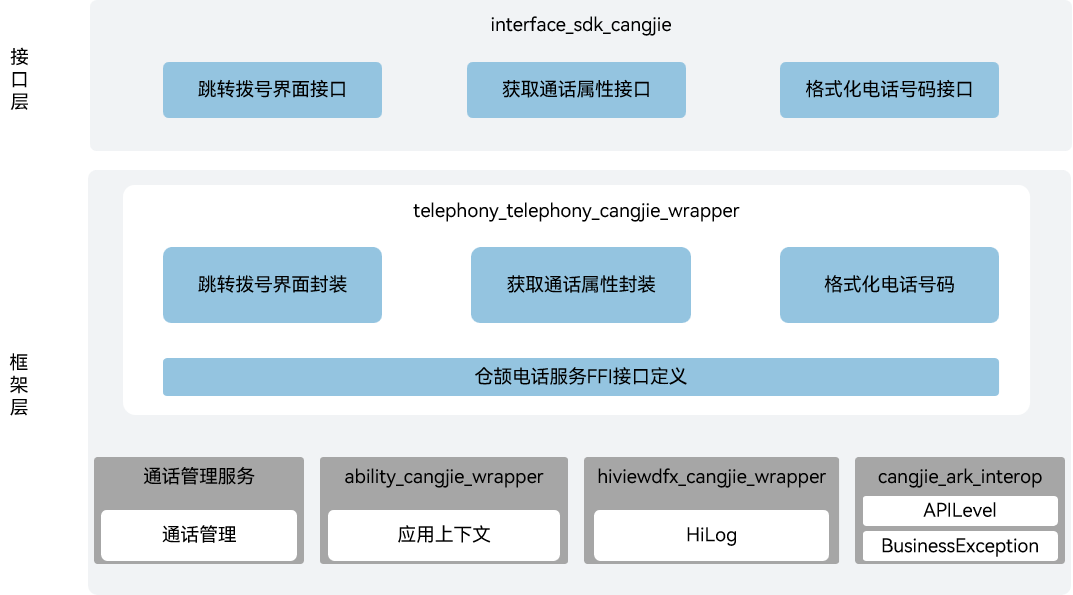
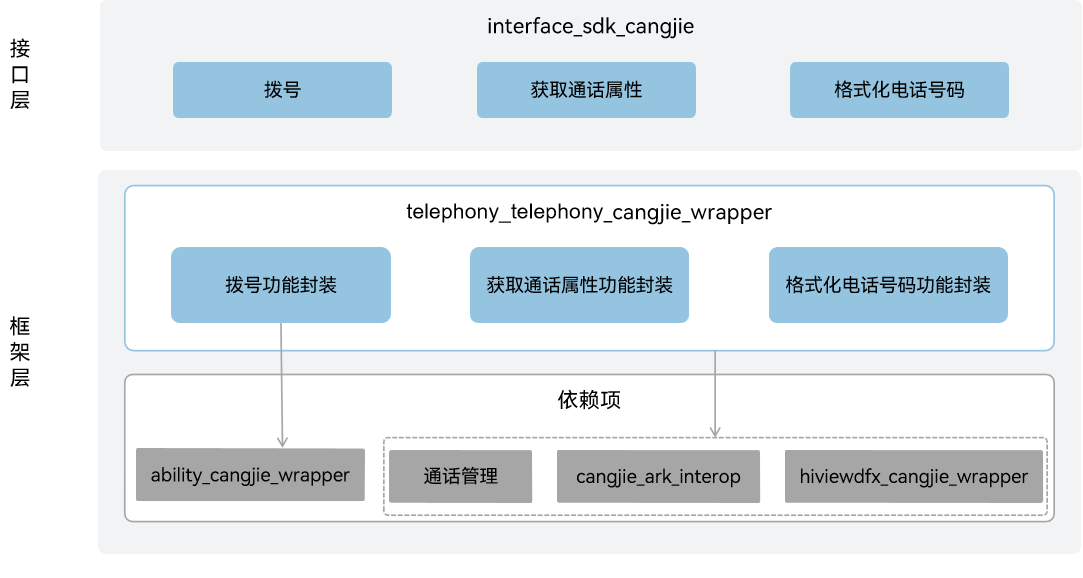
fix readme

diff --git a/README.md b/README.md
@@ -1,9 +1,9 @@
-# telephony_cangjie_wrapper
+# telephony_telephony_cangjie_wrapper
 
 ## Introduction
 
-The telephony_cangjie_wrapper is a Cangjie API encapsulated on OpenHarmony based on the capabilities of the telephony subsystem. It provides call management functions, including making calls, jumping to the dialing interface, obtaining call status, and formatting phone numbers.
-The currently open telephony Cangjie API only supports standard devices.
+The telephony_telephony_cangjie_wrapper is a call management capability provided on OpenHarmony for developers who use the Cangjie programming language to develop applications. Developers can use this capability to make phone calls, obtain call status, and format phone numbers.
+The currently open telephony_telephony_cangjie_wrapper only supports standard devices.
 
 ## System Architecture
 
@@ -13,14 +13,23 @@ The currently open telephony Cangjie API only supports standard devices.
 
 As shown in the architecture diagram:
 
+Interface Layer:
+
 - makeCall: Provides dialing function, the capability to jump to the dialing interface, and display the number to be dialed.
-- hasCall, getCallState, hasVoiceCapability, isEmergencyPhoneNumber: Provides the capabilities to determine whether there is a call, obtain the current call status, check whether the current device has voice call capability, and determine whether it is an emergency phone number.
-- formatPhoneNumber, formatPhoneNumberToE164: Provides the capability to format phone numbers.
-- Cangjie Telephony FFI interface: Responsible for defining C interoperation Cangjie interfaces, used to implement telephony service capabilities.
-- call_manager: Responsible for providing call management basic functions, encapsulating C interfaces for interoperation with Cangjie.
-- ability_cangjie_wrapper: Responsible for providing UiAbilityContext, used for dial operation.
-- hiviewdfx_cangjie_wrapper: Provides logging interfaces for printing logs on critical paths.
-- cangjie_ark_interop: Provides Cangjie annotation definitions for API annotation and BusinessException exception class definition for user-facing exceptions.
+- acquire call attribution: Offers developers the ability to determine if there is an ongoing call, obtain the current call status, check if the current device supports voice call functionality, and identify emergency phone numbers.
+- formatPhoneNumber: Supplies developers with the capability to format phone numbers.
+
+Framework Layer:
+- makeCall wrapper: Implements dialing functionality based on the system call management capabilities of the underlying call_manager, navigating to the dialing interface and displaying the called number.
+- attribution-related function wrapper: Realizes the ability to obtain call attributes based on the system call management capabilities of the underlying call_managemer.
+- formatPhoneNumber wrapper: Achieves phone number formatting capabilities based on the system call management capabilities of the underlying call management. The formatted numbers comply with standard digital strings or E.164 representation formats.
+
+Dependencies Introduction in Architecture:
+
+- call_manager: Relies on the system call management capabilities of call management to handle call downlink operations (such as dialing, answering, hanging up, etc.) and uplink statuses (incoming call status, call waiting status, etc.), and resolve conflicts arising during calls.
+- ability_cangjie_wrapper: Dialing depends on the application context capability provided by ability_cangjie_wrapper for navigating to the dialing interface during dialing.
+- hiviewdfx_cangjie_wrapper: Depends on HiLog capabilities for printing logs at key points.
+- cangjie_ark_interop: Depends on APILevel class definitions and BusinessException class definitions for API annotation and throwing exceptions to users in error branches.
 
 ## Directory Structure
 
@@ -38,9 +47,15 @@ base/telephony/telephony_cangjie_wrapper
 
 ## Usage
 
-As shown in the architecture diagram, the telephony Cangjie API provides the following functional interfaces. Developers can comprehensively use one or more types of interfaces according to their needs:
+As shown in the architecture diagram, the telephony_telephony_cangjie_wrapper provides the following functional interfaces. Developers can comprehensively use one or more types of interfaces according to their needs:
 
   - Make phone calls.
+
+For telephony related APIs, please refer to [ohos.telephony.call](https://gitcode.com/openharmony-sig/arkcompiler_cangjie_ark_interop/blob/master/doc/API_Reference/source_en/apis/TelephonyKit/cj-apis-telephony-call.md). For related guidelines, please refer to: [Make a Phone Call](https://gitcode.com/openharmony-sig/arkcompiler_cangjie_ark_interop/blob/master/doc/Dev_Guide/source_en/telephony/cj-telephony-call.md).
+
+## Constraints
+
+The device to be equipped requires hardware support including a speaker or earpiece, a microphone, and also needs an inserted SIM card.
 
 Compared to ArkTS API, the following functions are not supported:
 
@@ -50,8 +65,6 @@ Compared to ArkTS API, the following functions are not supported:
   - Network Search
   - SIM Card Management
   - Short Message Service (SMS)
-
-For telephony related APIs, please refer to [ohos.telephony.call](https://gitcode.com/openharmony-sig/arkcompiler_cangjie_ark_interop/blob/master/doc/API_Reference/source_en/apis/TelephonyKit/cj-apis-telephony-call.md). For related guidelines, please refer to: [Make a Phone Call](https://gitcode.com/openharmony-sig/arkcompiler_cangjie_ark_interop/blob/master/doc/Dev_Guide/source_en/telephony/cj-telephony-call.md).
 
 ## Code Contribution
 

diff --git a/README_zh.md b/README_zh.md
@@ -1,9 +1,9 @@
-# 电话服务仓颉接口
+# 电话服务仓颉封装
 
 ## 简介
 
-电话服务仓颉接口是在OpenHarmony上基于电话服务子系统能力之上封装的仓颉API，提供呼叫管理功能，包括拨打电话、跳转到拨号界面、获取通话状态、格式化电话号码。
-当前开放的电话服务仓颉接口仅支持standard设备。
+电话服务仓颉封装是在OpenHarmony上面对开发者使用仓颉语言进行应用开发时提供的呼叫管理能力，开发者可以使用该能力实现拨打电话、获取通话状态、格式化电话号码。
+当前开放的电话服务仓颉封装仅支持standard设备。
 
 ## 系统架构
 
@@ -13,14 +13,21 @@
 
 如架构图所示：
 
-- 跳转拨号界面接口：提供拨号功能，跳转到拨号界面，并显示待拨出的号码的能力。
-- 获取通话属性接口：提供判断是否存在通话，获取当前通话状态，检查当前设备是否具备语音通话能力以及判断是否是紧急电话号码的能力。
-- 格式化电话号码接口：提供格式化电话号码的能力。
-- 仓颉电话服务FFI接口定义：负责定义C语言互操作仓颉接口，用于实现电话服务的能力。
-- 通话管理服务：负责提供通话管理基础功能，封装C语言接口提供给仓颉进行互操作。
-- ability_cangjie_wrapper：负责提供应用上下文相关接口，用于拉起拨号应用。
-- hiviewdfx_cangjie_wrapper：负责提供日志接口，用于在关键路径打印日志。
-- cangjie_ark_interop：负责提供仓颉注解定义，用于对API进行标注，以及提供抛向用户的BusinessException异常类定义。
+接口层：
+- 拨号：面向开发者提供拨号能力，开发者可以使用该能力，拉起系统电话应用后自行呼出通话。
+- 获取通话属性：面向开发者提供判断是否存在通话，获取当前通话状态，检查当前设备是否具备语音通话能力以及判断是否是紧急电话号码的能力。
+- 格式化电话号码：面向开发者提供格式化电话号码的能力。
+
+框架层：
+- 拨号功能封装：基于底层通话管理的系统通话管理能力，实现拨号功能，跳转到拨号界面，并显示被叫号码。
+- 获取通话属性功能封装：基于底层通话管理的系统通话管理能力，实现获取通话属性的能力。
+- 格式化电话号码功能封装：基于底层通话管理的系统通话管理能力，实现格式化电话号码的能力，格式化后的号码满足标准数字字串或者E.164表示形式。
+
+架构图中依赖部件引入说明：
+- 通话管理：依赖通话管理的系统通话管理能力，用于处理通话下行操作（如拨号、接听、挂断等）和上行状态（来电状态、呼叫等待状态等）的处理，并解决通话过程中产生的冲突。
+- ability_cangjie_wrapper：拨号依赖ability_cangjie_wrapper提供的应用上下文能力，用于拨号时跳转到拨号界面。
+- hiviewdfx_cangjie_wrapper：依赖hiviewdfx_cangjie_wrapper提供的HiLog日志能力，用于在关键路径打印日志。
+- cangjie_ark_interop：依赖cangjie_ark_interop提供的仓颉注解类定义和BusinessException异常类定义，用于对API进行标注，及在错误分支向用户抛出异常。
 
 ## 目录
 
@@ -38,9 +45,15 @@ base/telephony/telephony_cangjie_wrapper
 
 ## 使用说明
 
-如架构图所示，电话服务仓颉接口提供了以下功能接口：
+当前电话服务仓颉封装提供了以下功能：
 
-  - 拨打电话。
+  - 拨号。
+
+电话服务相关接口请参见[电话服务API文档](https://gitcode.com/openharmony-sig/arkcompiler_cangjie_ark_interop/blob/master/doc/API_Reference/source_zh_cn/apis/TelephonyKit/cj-apis-telephony-call.md)，相关开发指导请参见[拨打电话](https://gitcode.com/openharmony-sig/arkcompiler_cangjie_ark_interop/blob/master/doc/Dev_Guide/source_zh_cn/telephony/cj-telephony-call.md)。
+
+## 约束
+
+需要搭载的设备支持扬声器或听筒、麦克风，硬件上，以及插入SIM卡。
 
 与ArkTS提供的API能力相比，暂不支持以下功能：
 
@@ -50,8 +63,6 @@ base/telephony/telephony_cangjie_wrapper
   - 网络搜索。
   - SIM卡管理。
   - 短信服务。
-
-电话服务相关接口请参见[电话服务API文档](https://gitcode.com/openharmony-sig/arkcompiler_cangjie_ark_interop/blob/master/doc/API_Reference/source_zh_cn/apis/TelephonyKit/cj-apis-telephony-call.md)，相关开发指导请参见[拨打电话](https://gitcode.com/openharmony-sig/arkcompiler_cangjie_ark_interop/blob/master/doc/Dev_Guide/source_zh_cn/telephony/cj-telephony-call.md)。
 
 ## 参与贡献
 
